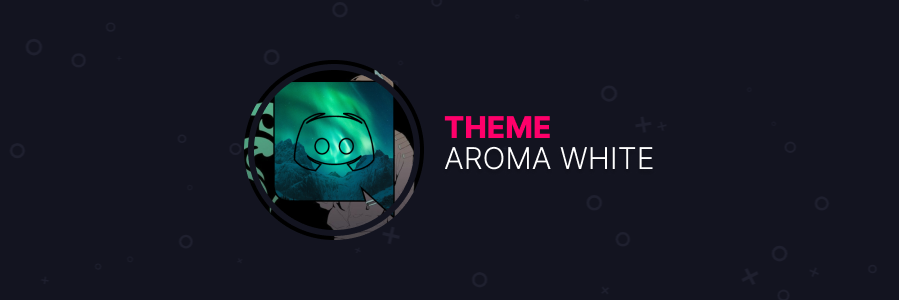
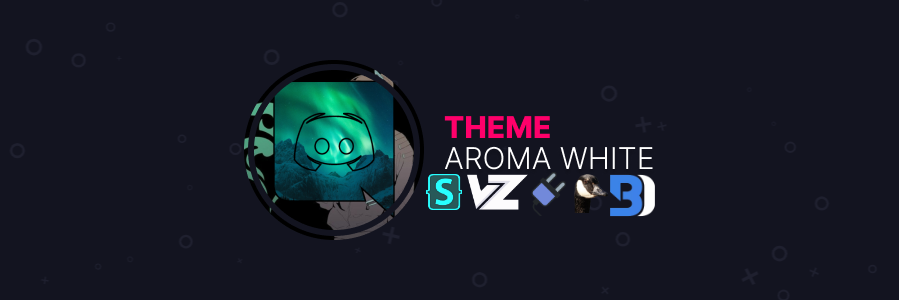
1.4.1 Update
2 new mods
Prideful and Hide Blocked
Support for Vizality
New banner for github

Changed region(s): [[0.4672, 0.57, 0.7475, 0.72]]

diff --git a/main/base.css b/main/base.css
@@ -142,6 +142,7 @@ TABLE OF CONTENTS
 16. Server Logos
 17. GooseMod Stuff
 18. Bot Stuff
+19. Web Edits
 */
 
 /*1. Background and Sizing*/
@@ -531,6 +532,10 @@ body::before {
   }
   
   /*3.d. Chat Input Area*/
+  /* Hides Textbox when you don't have permission to talk in the channel */
+.channelTextAreaDisabled-8rmlrp > div {
+  display: none
+}
   form.form-2fGMdU {
 	  padding: 0px 10px 10px 10px;
   }
@@ -719,6 +724,65 @@ body::before {
   }
   
   /*3.j. Linked Channels and Mentions*/
+  [href*="youtu.be"],
+[href*="youtube.com"] {
+    color: #C4302B !important;
+    font-weight: 700;
+}
+
+[href*="twitch.tv"] {
+    color: #B700FF !important;
+    font-weight: 700;
+}
+
+[href*="spotify.com"] {
+    color:rgb(19, 185, 4) !important; 
+    font-weight: 700;
+}
+
+[href*="discord.com/channels/"] {
+    color: #5865F2 !important;
+}
+
+[href*="discord.com/channels/"]::before {
+    content:'Jump to Message : ';
+    font-size:16px;
+    font-weight:700;
+    color: #5865F2;
+}
+
+[href*="reddit.com"] {
+    color: #FF4500 !important; 
+    font-weight: 700;
+}
+
+[href*="instagram.com/"]{
+    background: -webkit-linear-gradient(80deg, rgb(255, 238, 0), rgb(255, 157, 11), #B700FF);
+    -webkit-background-clip: text;
+    -webkit-text-fill-color: transparent;
+    font-weight: 700;
+} 
+
+[href*="twitter.com/"]{
+    color: #00ACEE !important;
+    font-weight: 700;
+}
+
+[href*="discord.com/"],
+[href*="discord.gg/"] {
+    color:#5865F2 !important;
+    font-weight: 700;
+}
+
+[href*="github.com"] {
+    color: #00F0A8 !important;
+    font-weight: 700;
+}
+
+[href*="vizality.com"]{
+    color: #FF006A !important;
+    font-weight: 700;
+}
   .mentioned-xhSam7:before {
 	  background-color: rgba(250, 166, 26, 0.25);
   }
@@ -4174,7 +4238,7 @@ body::before {
   
   /*9.u Changelog*/
   .iconWrapper-2OrFZ1.clickable-3rdHwn[aria-label="Help"]:hover::before {
-	  content: "Latest Changes\nUpdated to new discord update\nNo longer forcing custom banners\nNow supporting STYLUS!";
+	  content: "Latest Changes\nUpdated to new discord update\nNo longer forcing custom banners\nNow supporting STYLUS!\nVizality Support!\nNew Modules\nHiding blocked users\nPrideful Mod (off by default)\nMoving to SCSS soon!";
 	  display: block;
 	  line-height: 22px;
 	  font-size: 18px;
@@ -5203,3 +5267,18 @@ header[data-guild-id="750876703747997738"] > .powercord-badge {
   .botTagVerified-1klIIt {
     background-color: #ff00dd
  }
+ /*19. Web Edits*/
+ /* Theme-based download pop-up */
+.mobileContainer-1x7CLQ,
+.desktopContainer-spQem0 {
+    background-color: var(--backdropblurred);
+}
+.mobileContainer-1x7CLQ .header-2lqoyd,
+.desktopHeader-1LNLub {
+  color: var(--main-color);
+}
+
+.mobileContainer-1x7CLQ .subheader-AECc1B,
+.desktopSubHeader-3UUZGI {
+  color: var(--gradient1);
+}

diff --git a/mods/prideful.css b/mods/prideful.css
@@ -1,0 +1,40 @@
+/* Rainbow Mentions */
+@keyframes rainbow_animation {
+    0%,100% {
+    background-position: 0 0;}
+    50% {
+    background-position: 100% 0;}}
+  .markup-2BOw-j .messageContent-2qWWxC {
+    background-color: rgba(0, 0, 0, 0.1) !important; 
+    background-image: linear-gradient(to right, #ff000050, #FF8C0030, #FFD70030, #00FF0030, #00BFFF30 , #BA55D330, #ff000050) !important;
+    background-size: 400% 100% !important;
+    animation: rainbow_animation 10s ease-in-out infinite !important;
+  }
+  /* Rainbow Channels */
+  .wrapper-1ucjTd.modeSelected-1zApJ_ .content-3at_AU:after{    
+    background: none;
+    background-image: linear-gradient(to right, #ff000050, #FF8C0030, #FFD70030, #00FF0030, #00BFFF30 , #BA55D330, #ff000050) !important;
+    background-size: 400% 100% !important;
+    animation: rainbow_animation 5s ease-in-out infinite !important;
+  }
+  /* Rainbow Text */   
+  .markup-2BOw-j {
+    animation: rainbow_animation linear 10s infinite;
+    } 
+    
+    @keyframes rainbow_animation {
+      0%   {color: red;}
+      25%  {color:blue;}
+      50%  {color: #f8d50bd7;}
+      75%  {color: #00ff0083;}
+      100% {color: red;}
+    }
+    /*pride Banner*/
+.banner-2QYc2d {
+    background: url('https://i.imgur.com/D2fsL3a.png');
+  }
+  /* Server selected pill background */
+.pill-1z4sAY.wrapper-sa6paO .item-2hkk8m { /* Pride Month Look */
+    background: url('https://i.imgur.com/SaGlnDV.png');
+    background-size: 40px;
+  }

diff --git a/Aroma.theme.css b/Aroma.theme.css
@@ -1,7 +1,7 @@
 /**
  * @name Aroma White
  * @author PhoenixAceVFX#6501
- * @version 1.4
+ * @version 1.4.1
  * @description A mod of Aurora I personally maintain
  * @source https://github.com/PhoenixAceVFX/Aroma-White
 */
@@ -100,6 +100,8 @@
 @import url('https://phoenixacevfx.github.io/Aroma-White/mods/emoji.css');/*On by Default*/
 @import url('https://phoenixacevfx.github.io/Aroma-White/mods/imgutilfix.css');/*On by Default*/
 @import url('https://phoenixacevfx.github.io/Aroma-White/mods/icos.css');/*On by Default*/
+@import url('https://phoenixacevfx.github.io/Aroma-White/mods/hideblocked.css');/*On by Default*/
+/*@import url('https://phoenixacevfx.github.io/Aroma-White/mods/prideful.css');*//*Off by Default*/
 :root {	
 /*Color Variables*/	
 	--main-color: linear-gradient(150deg, var(--gradient1), var(--gradient2)); /*Accent Color of the Theme*/	

diff --git a/Aroma.user.css b/Aroma.user.css
@@ -101,6 +101,8 @@
     @import url('https://phoenixacevfx.github.io/Aroma-White/mods/emoji.css');/*On by Default*/
     @import url('https://phoenixacevfx.github.io/Aroma-White/mods/imgutilfix.css');/*On by Default*/
     @import url('https://phoenixacevfx.github.io/Aroma-White/mods/icos.css');/*On by Default*/
+    @import url('https://phoenixacevfx.github.io/Aroma-White/mods/hideblocked.css');/*On by Default*/
+    /*@import url('https://phoenixacevfx.github.io/Aroma-White/mods/prideful.css');*//*Off by Default*/
     :root {	
     /*Color Variables*/	
         --main-color: linear-gradient(150deg, var(--gradient1), var(--gradient2)); /*Accent Color of the Theme*/	

diff --git a/mods/hideblocked.css b/mods/hideblocked.css
@@ -1,0 +1,9 @@
+div[class^="container-"]{ min-height: 0; }
+div[class^="blockedSystemMessage-"], div[class*="blockedSystemMessage-"] { 
+    
+    display: none; 
+}
+
+div[class^="groupStart-"], div[class^="da-groupStart"] {
+    display: none;
+}

diff --git a/README.md b/README.md
@@ -1,8 +1,8 @@
-<img src="https://github.com/PhoenixAceVFX/Aroma-White/raw/main/banner.png" />  
+<img src="banner.png" />  
 
 # Aroma White  
 # NOW COMPATABLE WITH ALL POPULAR MODS
-This is a custom theme for PowerCord that I currently Maintain myself  
+This is a custom theme for Discord that I currently Maintain myself  
 As of the many updates this is now SUPPORTING Several Clients  
 I do not claim credit for any of the code as this is a mash of many snips from the PowerCord Discord  
 You can toggle individual aftermods in the Aroma.theme.css  
@@ -10,6 +10,7 @@ You can toggle individual aftermods in the Aroma.theme.css
 >PowerCord - git clone https://github.com/PhoenixAceVFX/Aroma-White  
 >BetterDiscord - Place Aroma.theme.css in Themes Folder!  
 >GooseMod - Get it in the theme store!  
->Stylus - [Click Here to install](https://github.com/PhoenixAceVFX/Aroma-White/raw/main/Aroma.user.css)
+>Stylus - [Click Here to install](https://github.com/PhoenixAceVFX/Aroma-White/raw/main/Aroma.user.css)  
+>Vizality - Should be the same as other Vizality themes  
 
 <img src="https://github.com/PhoenixAceVFX/Aroma-White/raw/main/BDx3p2gh.png" />
